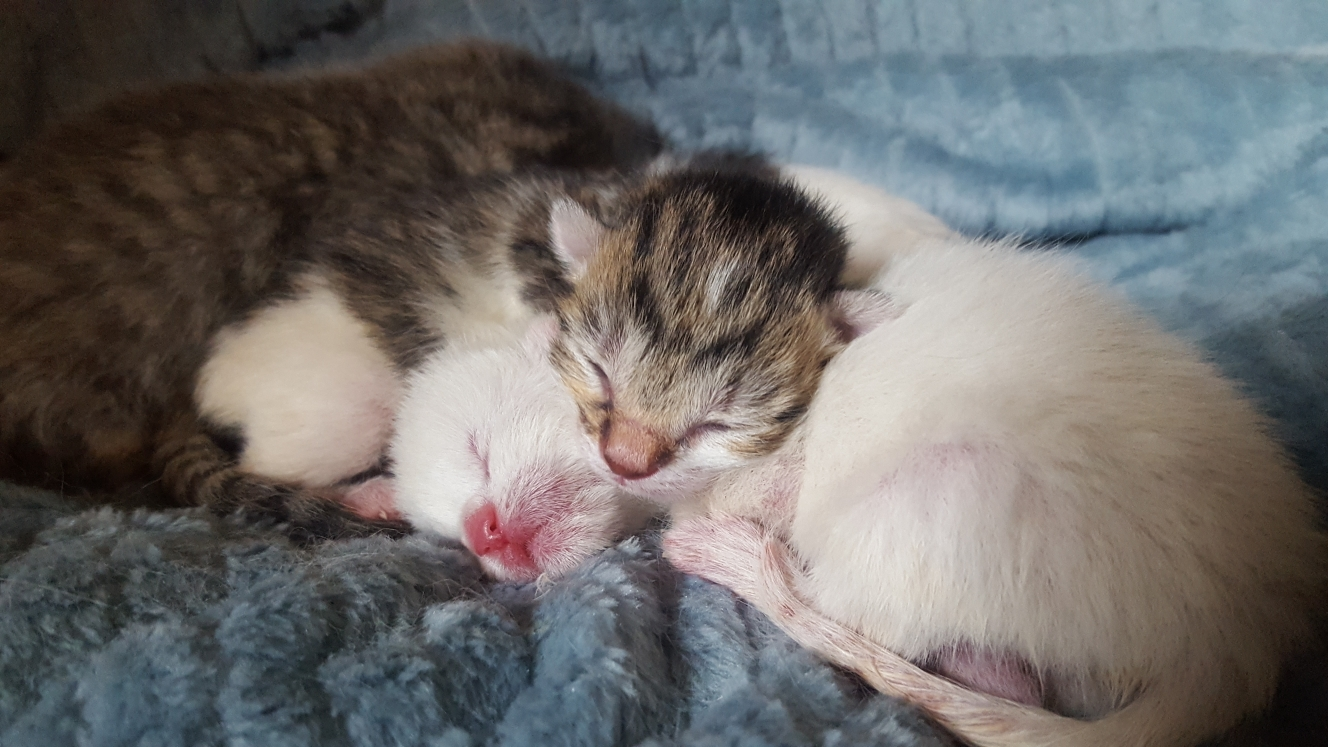
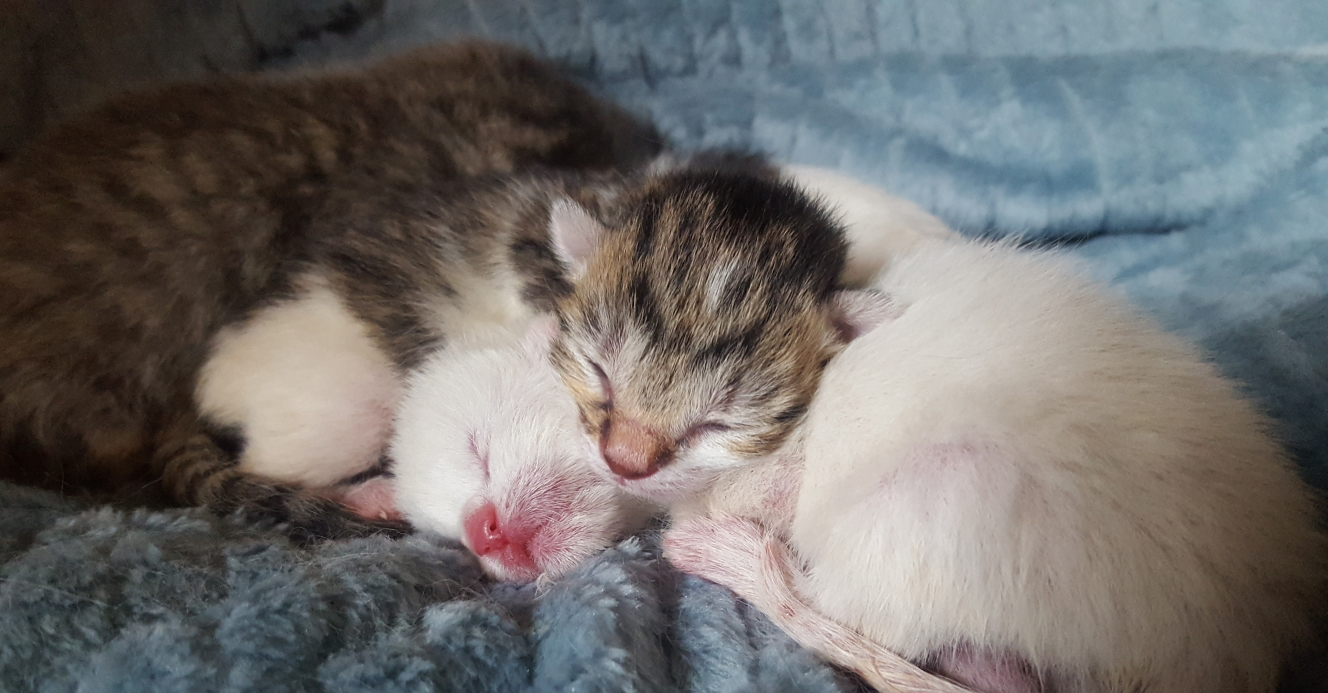
Switching pictures out
Mostly just rearranging some pictures to reduce repeats

diff --git a/giving.html b/giving.html
@@ -104,7 +104,7 @@ height="0" width="0" style="display:none;visibility:hidden"></iframe></noscript>
     
   </ol>
   <div class="carousel-inner bg-image-carousel">
-    <div class="carousel-item active" style="background-image: url('img/Resized_20180329_162929.jpg');" data-pause="hover" data-keyboard="true" data-touch="true">
+    <div class="carousel-item active" style="background-image: url('img/Resized_20180329_162929.jpg'); background-position: center bottom;" data-pause="hover" data-keyboard="true" data-touch="true">
       
       <div class="carousel-caption d-md-block">
        <div class="row align-items-center">
@@ -122,7 +122,7 @@ height="0" width="0" style="display:none;visibility:hidden"></iframe></noscript>
 
     
 
-    <div class="carousel-item" style="background-image: url('img/adoption/Tails.jpg');" data-pause="hover" data-keyboard="true" data-touch="true">
+    <div class="carousel-item" style="background-image: url('img/about/cat-rescue.jpg');" data-pause="hover" data-keyboard="true" data-touch="true">
       
       <div class="carousel-caption d-md-block">
            <div class="row align-items-center">
@@ -174,7 +174,7 @@ height="0" width="0" style="display:none;visibility:hidden"></iframe></noscript>
     </div>
 
 
-    <div class="carousel-item" style="background-image: url('img/adoption/Eliza-Reyna.jpg');background-position: left center;" data-pause="hover" data-keyboard="true" data-touch="true"><div class="carousel-caption d-md-block">
+    <div class="carousel-item" style="background-image: url('img/adoption/SnazzyJazzy.jpg');background-position: left center;" data-pause="hover" data-keyboard="true" data-touch="true"><div class="carousel-caption d-md-block">
         <div class="row align-items-center">
           <div class="col-md-9">
             <h5 class="d-inline">Sponsorship.</h5>
@@ -246,7 +246,7 @@ Other Ways You Can Help</h2></div></div>
     <div class="row mt-4 card-deck">
       
         <div class="card" >
-       <a href="https://www.paypal.com/cgi-bin/webscr?cmd=_s-xclick&hosted_button_id=DVX224DS8W68C&source=url"> <div style="background-image: url('img/IMG_20190920_185158.jpg'); background-size: cover; background-position: center ;width: 100%; height:10em;" class="card-img-top" alt="..."></div></a>
+       <a href="https://www.paypal.com/cgi-bin/webscr?cmd=_s-xclick&hosted_button_id=DVX224DS8W68C&source=url"> <div style="background-image: url('img/giving/20191029_132017.jpg'); background-size: cover; background-position: center ;width: 100%; height:10em;" class="card-img-top" alt="..."></div></a>
 
         <div class="card-body">
            <h5 class="card-title font-weight-light">Support Us While You Shop</h5>
@@ -257,7 +257,7 @@ Other Ways You Can Help</h2></div></div>
       <!-- /.col-lg-4 -->
     
         <div class="card" >
-        <a href="https://www.amazon.com/hz/wishlist/ls/2WPTBNHRVUI4Q"><div style="background-image: url('img/Resized_20180329_162929.jpg'); background-size: cover; background-position: center ;width: 100%; height:10em;" class="card-img-top" alt="..."></div></a>
+        <a href="https://www.amazon.com/hz/wishlist/ls/2WPTBNHRVUI4Q"><div style="background-image: url('img/giving/playing2.jpg'); background-size: cover; background-position: center ;width: 100%; height:10em;" class="card-img-top" alt="..."></div></a>
 
         <div class="card-body">
            <h5 class="card-title font-weight-light">Supplies we Need</h5>
@@ -273,7 +273,7 @@ Other Ways You Can Help</h2></div></div>
   <!-- /.col-lg-4 -->
 
         <div class="card">
-       <a href="sponsorship.html" > <div style="background-image: url('img/about/Ketniss.jpg'); background-size: cover; background-position: center ;width: 100%; height:10em;" class="card-img-top" alt="..."></div></a>
+       <a href="sponsorship.html" > <div style="background-image: url('img/giving/sponsor.jpg'); background-size: cover; background-position: left center ;width: 100%; height:10em;" class="card-img-top" alt="..."></div></a>
         <div class="card-body">
            <h5 class="card-title  font-weight-light">Sponsorship</h5>
           <p class="card-text">Do you wish you could help, but are too busy or already have your share of pets? Consider sponsoring a cat! With a small donation each month you can help us care for all the cats that need our help!</p>

diff --git a/about.html b/about.html
@@ -190,7 +190,7 @@ We rescue cats. </h2>
     <div class="row mt-4 card-deck">
       
         <div class="card" >
-        <a href="volunteer.html"><div style="background-image: url('img/IMG_20190920_185158.jpg'); background-size: cover; background-position: center ;width: 100%; height:10em;" class="card-img-top" alt="..."></div></a>
+        <a href="volunteer.html"><div style="background-image: url('img/about/volunteer-run.jpg'); background-size: cover; background-position: center ;width: 100%; height:10em;" class="card-img-top" alt="..."></div></a>
 
         <div class="card-body">
            <h5 class="card-title font-weight-light">100% Volunteer-Run</h5>
@@ -201,7 +201,7 @@ We rescue cats. </h2>
       <!-- /.col-lg-4 -->
     
         <div class="card" >
-        <a href="giving.html"><div style="background-image: url('img/Resized_20180329_162929.jpg'); background-size: cover; background-position: center ;width: 100%; height:10em;" class="card-img-top" alt="..."></div></a>
+        <a href="giving.html"><div style="background-image: url('img/about/nonprofit.jpg'); background-size: cover; background-position: center ;width: 100%; height:10em;" class="card-img-top" alt="..."></div></a>
 
         <div class="card-body">
            <h5 class="card-title font-weight-light">100% Nonprofit</h5>
@@ -212,7 +212,7 @@ We rescue cats. </h2>
   <!-- /.col-lg-4 -->
 
         <div class="card">
-        <a href="https://www.petfinder.com/search/pets-for-adoption/?shelter_id%5B0%5D=WA178&sort%5B0%5D=recently_added" ><div style="background-image: url('img/IMG_20191206_181712.jpg'); background-size: cover; background-position: center ;width: 100%; height:10em;" class="card-img-top" alt="..."></div></a>
+        <a href="https://www.petfinder.com/search/pets-for-adoption/?shelter_id%5B0%5D=WA178&sort%5B0%5D=recently_added" ><div style="background-image: url('img/about/cat-rescue.jpg'); background-size: cover; background-position: center ;width: 100%; height:10em;" class="card-img-top" alt="..."></div></a>
         <div class="card-body">
            <h5 class="card-title  font-weight-light">Cat Rescue</h5>
           <p class="card-text">We work with local shelters to rescue as many cats and kittens as possible. All of our rescues are taken directly from shelters and stay in our program until they are adopted. Some of our harder to place cats may even be with us for years.</p>

diff --git a/index.html b/index.html
@@ -179,7 +179,7 @@ You can make a difference!</h2></div></div>
     <div class="row mt-4 card-deck">
       
         <div class="card ml-1" >
-        <a href="volunteer.html" ><div style="background-image: url('img/IMG_20190920_185158.jpg'); background-size: cover; background-position: center ;width: 100%; height:10em;" class="card-img-top" alt="..."></div></a>
+        <a href="volunteer.html" ><div style="background-image: url('img/home/00100dPORTRAIT_00100_BURST20191206181614453_COVER.jpg'); background-size: cover; background-position:left center ;width: 100%; height:10em;" class="card-img-top" alt="..."></div></a>
 
         <div class="card-body">
            <h5 class="card-title font-weight-light">Volunteer</h5>
@@ -190,7 +190,7 @@ You can make a difference!</h2></div></div>
       <!-- /.col-lg-4 -->
     
         <div class="card" >
-       <a href="fostering.html"> <div style="background-image: url('img/Resized_20180329_162929.jpg'); background-size: cover; background-position: center ;width: 100%; height:10em;" class="card-img-top" alt="..."></div></a>
+       <a href="fostering.html"> <div style="background-image: url('img/home/foster.jpg'); background-size: cover; background-position: center ;width: 100%; height:10em;" class="card-img-top" alt="..."></div></a>
 
         <div class="card-body">
            <h5 class="card-title font-weight-light">Foster</h5>
@@ -201,7 +201,7 @@ You can make a difference!</h2></div></div>
   <!-- /.col-lg-4 -->
 
         <div class="card mr-1">
-        <a href="giving.html"><div style="background-image: url('img/IMG_20191206_181712.jpg'); background-size: cover; background-position: center ;width: 100%; height:10em;" class="card-img-top" alt="..."></div></a>
+        <a href="giving.html"><div style="background-image: url('img/home/donate.jpg'); background-size: cover; background-position: center ;width: 100%; height:10em;" class="card-img-top" alt="..."></div></a>
         <div class="card-body">
            <h5 class="card-title font-weight-light">Donate</h5>
           <p class="card-text">As a 100% non-profit organization, Partners for Pets relies on donations to keep our cat rescue programs running.</p>

diff --git a/fostering.html b/fostering.html
@@ -106,9 +106,9 @@ height="0" width="0" style="display:none;visibility:hidden"></iframe></noscript>
           </div>
         </div>
 
-       <div class="carousel-item active" style="background-image: url('img/volunteer/kittens.jpg'); background-position: top;" data-pause="hover" data-keyboard="true" data-touch="true"></div>
+       <div class="carousel-item active" style="background-image: url('img/foster/20191029_132017.jpg'); background-position: center;" data-pause="hover" data-keyboard="true" data-touch="true"></div>
       
-      <div class="carousel-item active" style="background-image: url('img/Resized_20180329_162929.jpg');" data-pause="hover" data-keyboard="true" data-touch="true"></div>
+      <div class="carousel-item" style="background-image: url('img/Resized_20180329_162929.jpg');" data-pause="hover" data-keyboard="true" data-touch="true"></div>
 </div>
 
     <a class="carousel-control-prev" href="#carouselExampleCaptions" role="button" data-slide="prev">

diff --git a/sponsorship.html b/sponsorship.html
@@ -155,7 +155,7 @@ height="0" width="0" style="display:none;visibility:hidden"></iframe></noscript>
     
   
 
-    <div class="carousel-item" style="background-image: url('img/adoption/Mez.jpg');background-position: right center;" data-pause="hover" data-keyboard="true" data-touch="true">
+    <div class="carousel-item" style="background-image: url('img/sponsor/cherlene.jpg');background-position: right center;" data-pause="hover" data-keyboard="true" data-touch="true">
       
       <div class="carousel-caption d-md-block">
         <div class="row align-items-center">
